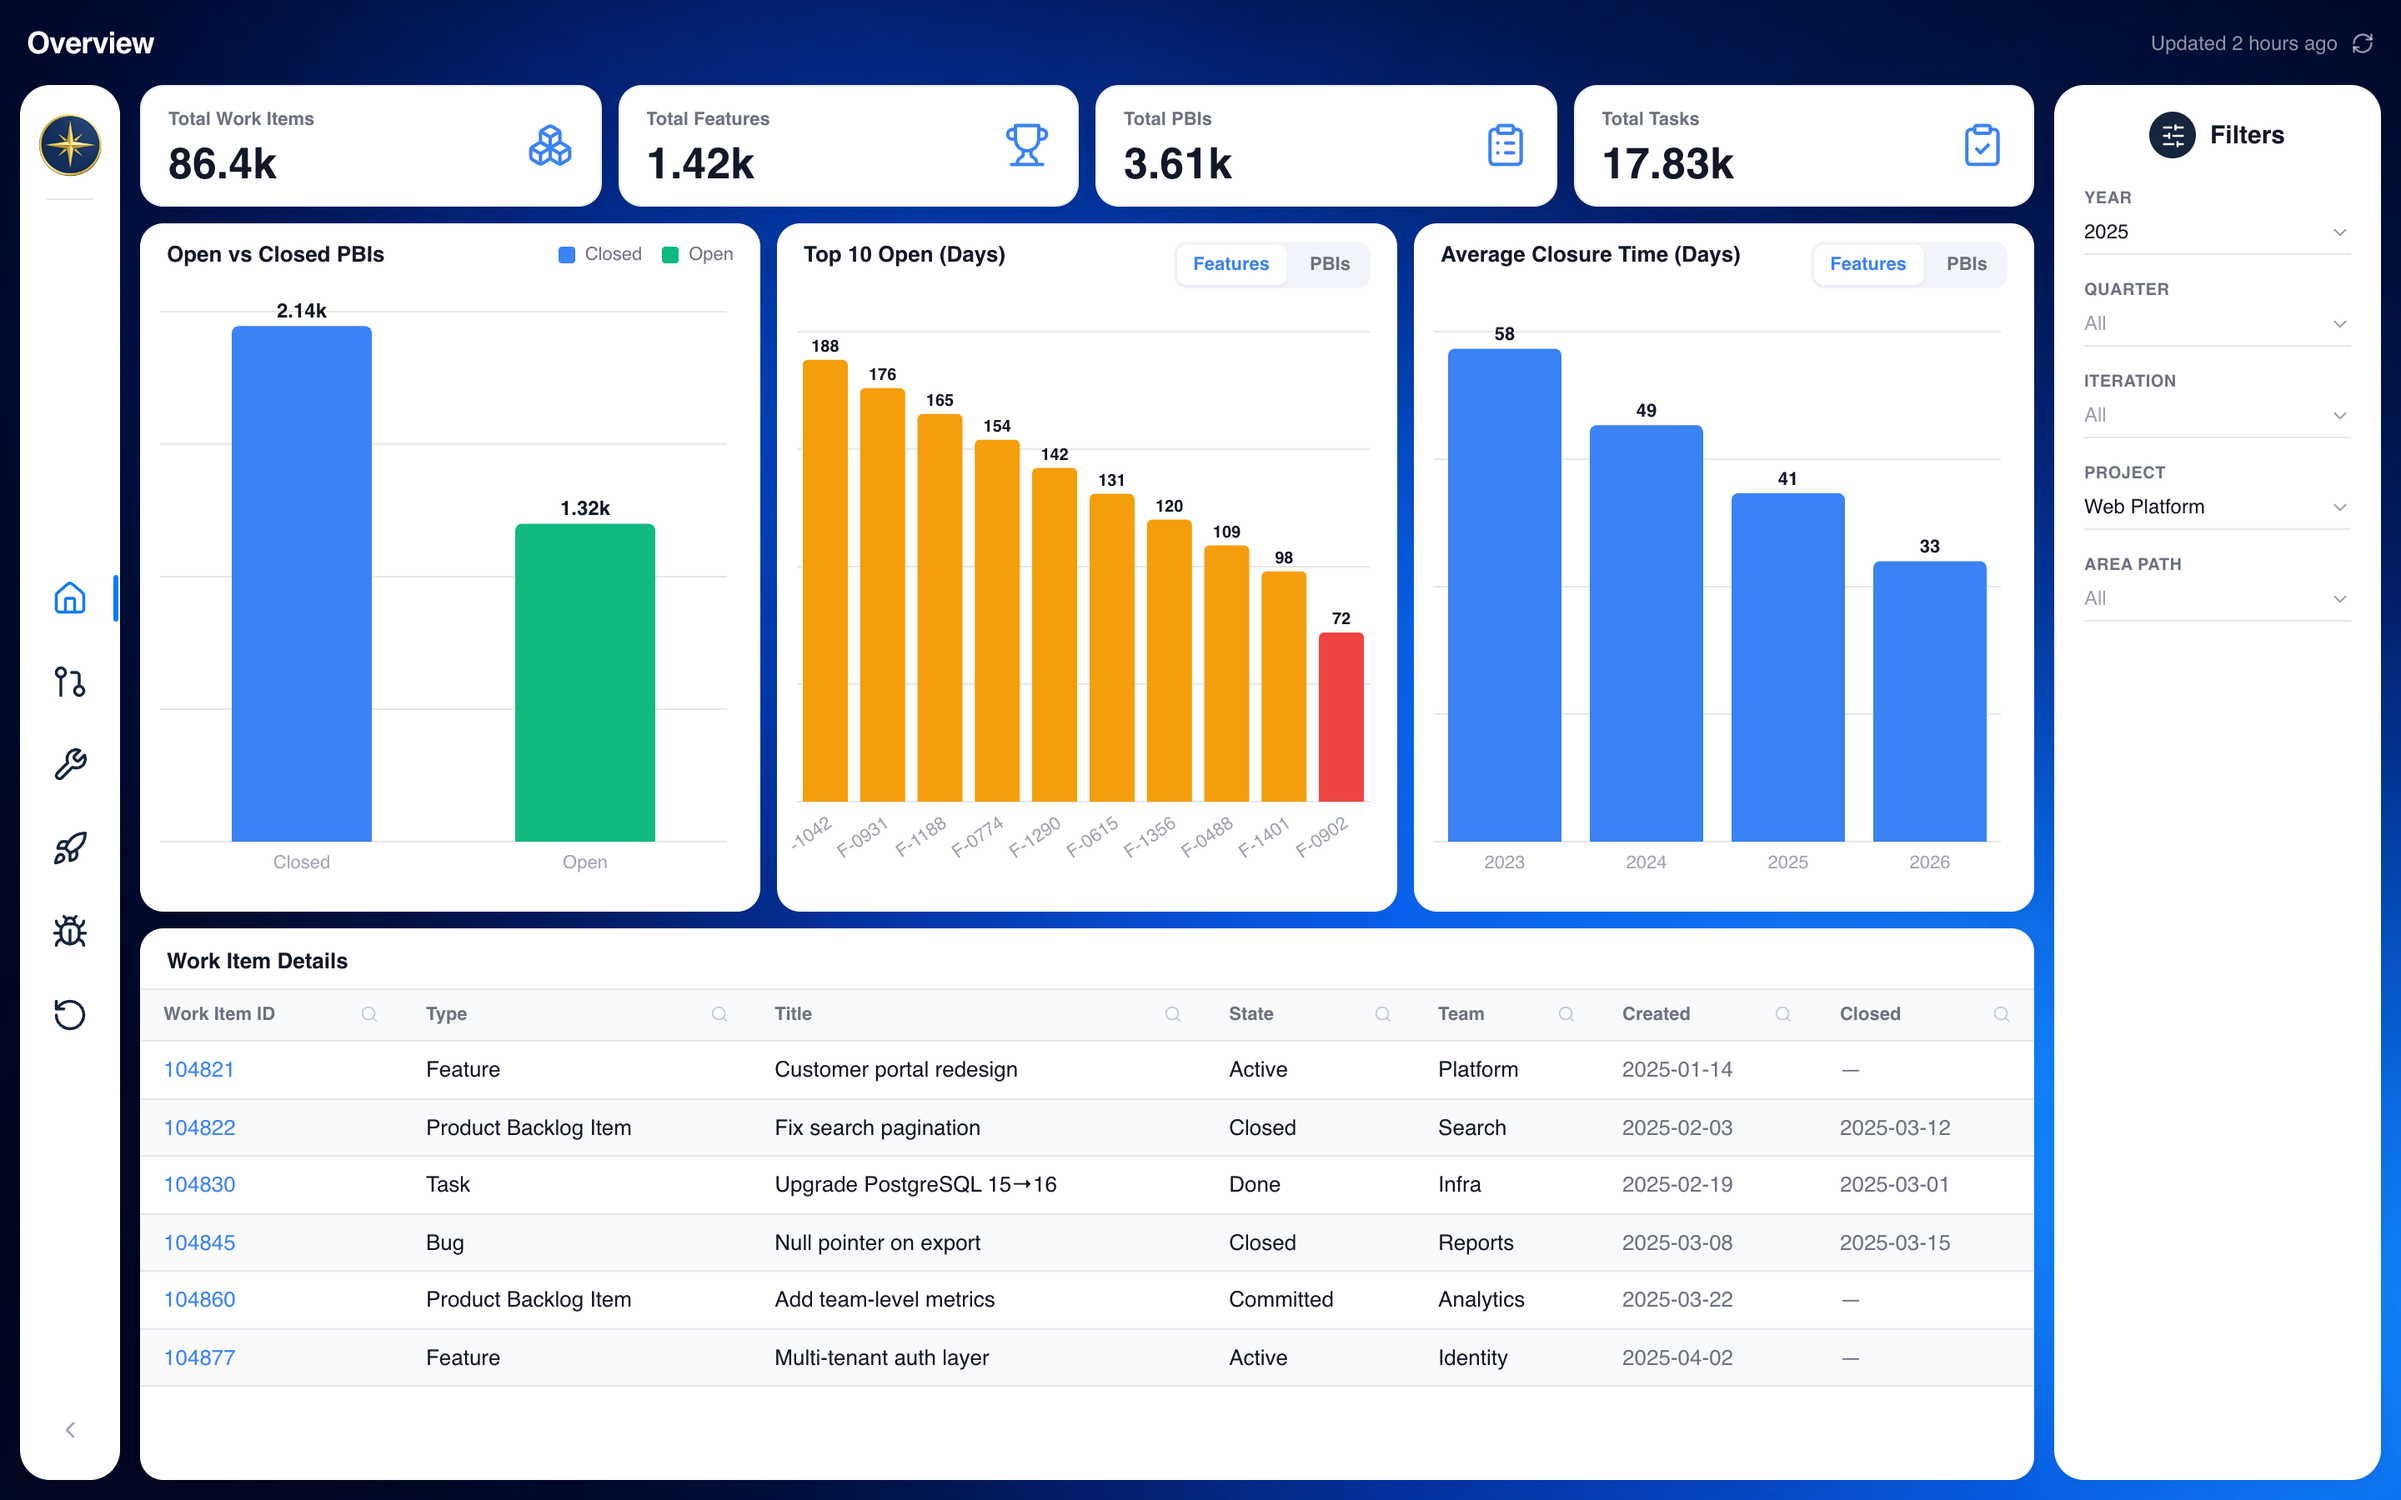
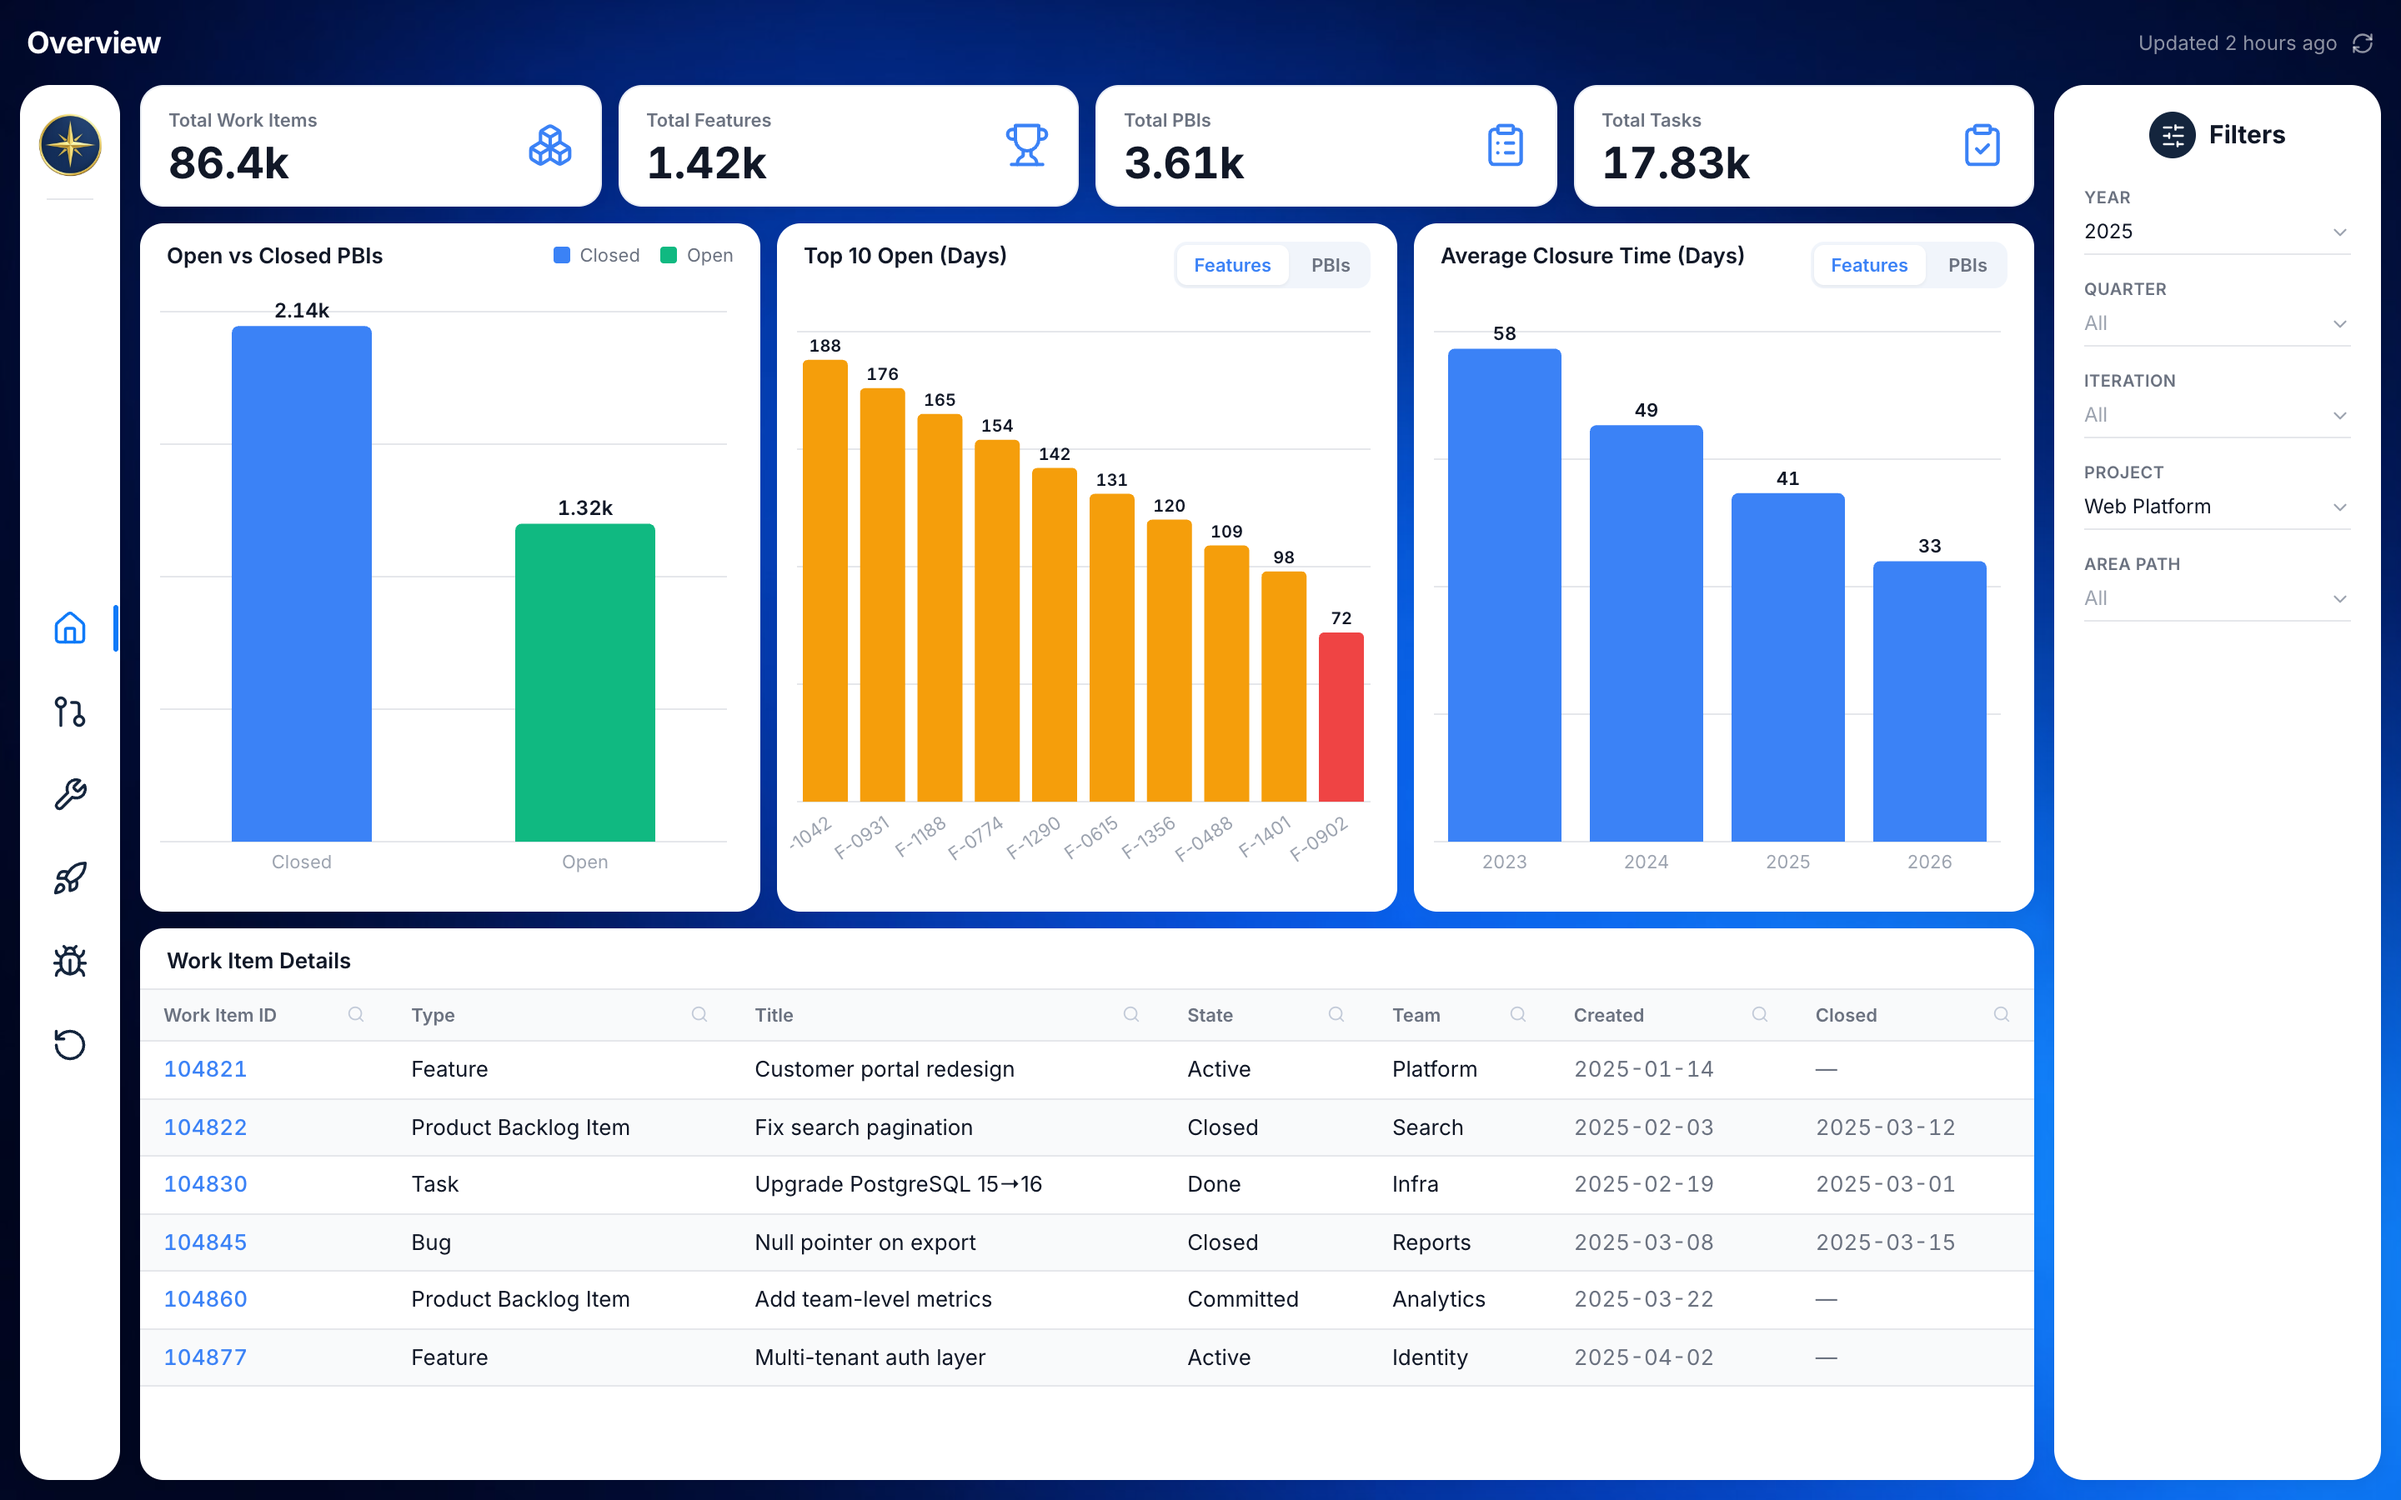
Remove collapse chevron from sidebar; update screenshots

diff --git a/src/components/Sidebar.tsx b/src/components/Sidebar.tsx
@@ -6,7 +6,6 @@ import {
   Rocket,
   Bug,
   RotateCcw,
-  ChevronLeft,
 } from 'lucide-react';
 import logo from '../assets/logo.png';
 
@@ -71,14 +70,6 @@ export default function Sidebar() {
         ))}
       </ul>
 
-      {/* collapse chevron */}
-      <button
-        className="mt-2 flex h-7 w-7 items-center justify-center rounded-full text-[#9aa6bd] hover:bg-[#f1f5fb]"
-        aria-label="Collapse"
-        type="button"
-      >
-        <ChevronLeft size={16} />
-      </button>
     </nav>
   );
 }
